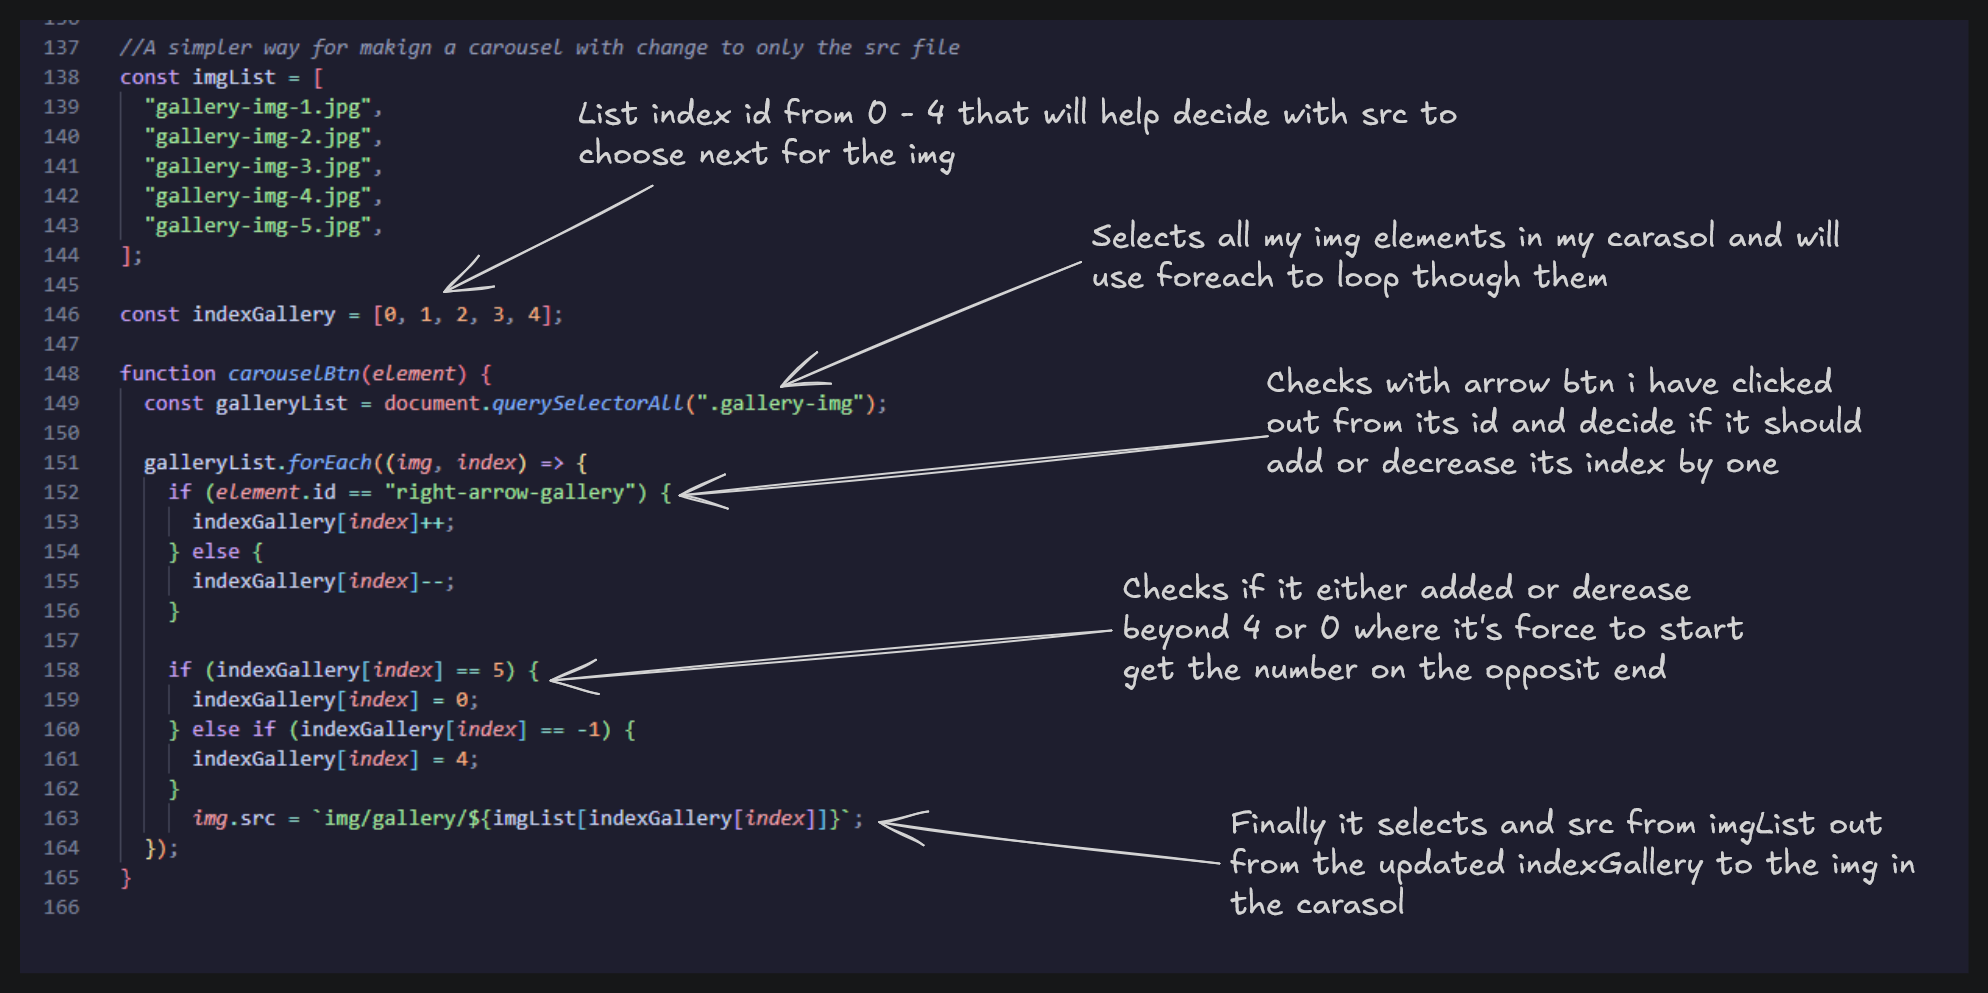
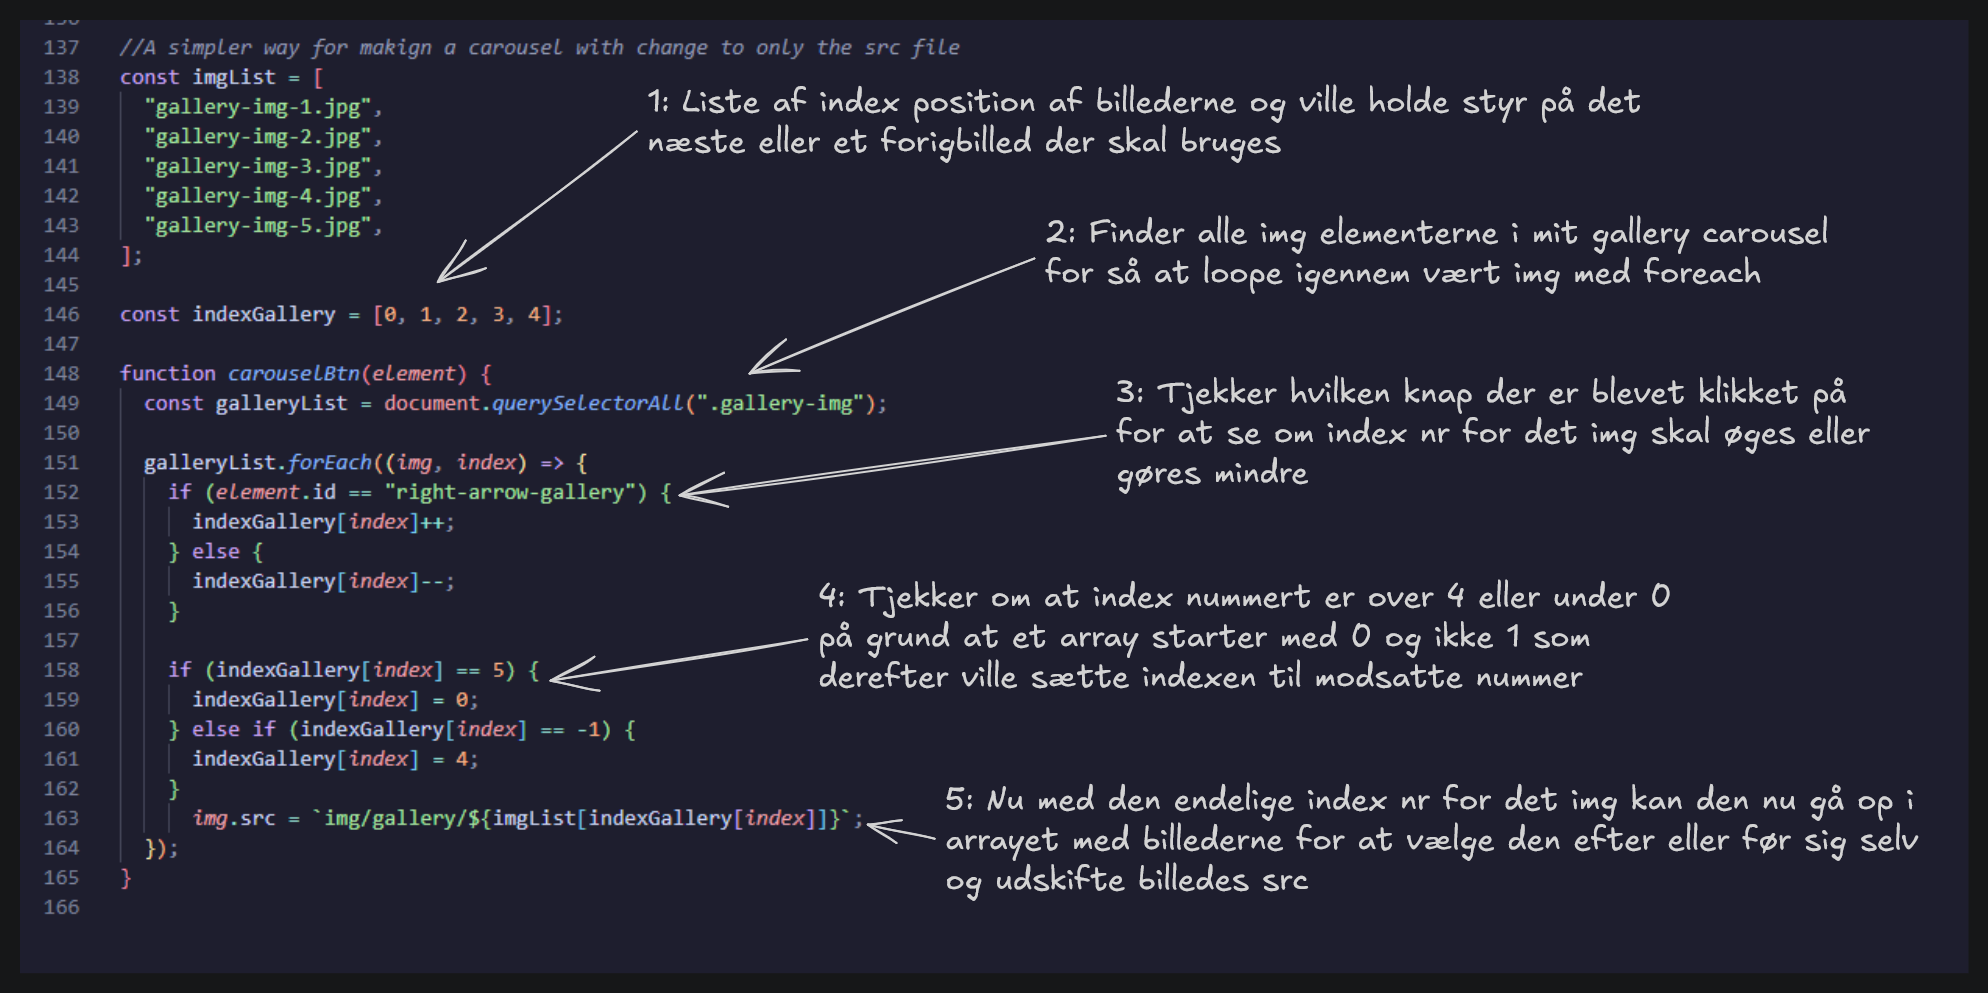
fix: changed the README  so it should be mostly done if not it would just need a few twicks

diff --git a/README.md b/README.md
@@ -1,48 +1,80 @@
 # LUMINA Audio
-###### Hvad er formålet med projektet?
 Lumina audio er en landing page som er en af projekt opgaver vi har arbejdet igennem første semester og jeg har så valgt projektet for at forbedre den med alt det jeg har lært igennem første semeste.
 
-###### Hvilke teknologier har du brugt?
-Jeg har brugt VSC som min kode editer og git for gemme koden op.
+Til projektet har jeg brugt VSC som min kode editer og github for gemningen af min kode og websom webhosteren.
 
-###### Hvad kan brugeren gøre på siden?
-Projektet er en landing page så den har derfor allerede limited interaktioner.
-* Buttons onlcik for at hvis en popup istedet for redirection.
+I gennem projektet kan bruge gøre disse interaktioner gennem landing pagen.
+* Buttons onclick for at hvis en popup istedet for redirection.
 * Projekt farverne af produktet kan ændres til 4 forskellige farver sammen med ændring af billedets vinkel.
 * Man kan klikke igennem et galleri med billeder af produktet.
 
-###### Hvilken type data arbejder projektet med?
+Gennem projektet kan jeg se at jeg bruger disse datatyper 
 * Sting
 * Array
 * Object
 
 
 ## Fil- og mappestruktur
-Så vi kan starte med min index.html fil, hvor den indholder symantiske elementer som sections, artikle, osv. hvor hvert sektion er splittet op i en sektion element og bruger onclick for at få funktioner til at blive kaldt fra js siden af  
 
-Jeg har også valgt at lave folders til både CSS og JS men siden der kun er en fil i hver af dem at folderen kunne godt blive fjernet men jeg er vant til at have det samme i folders det samme skulle også gå for pages hvis jeg havde flere mens index skal aldtid være i starten af root folderen
+### Root files
+Så vi kan starte med de filer der er ude i roo folderen der har jeg min index.html hvis jeg havde andre sider jeg skull redirect til ville de filer være i sin egen folder som kunne være kaldt pages. Den anden fil er min json fil der indholder data af mit produkt som indholder tekst, farver og src path. De bliver brugt inde i sectionen hvor en bruger kan vælge produktets farver men også vinklen af produktet.  
 
-Så har jeg img folder hvor jeg har prøvet at lave så mange folders og smide dem ind i hinandne så der ikke ligger 10+ iconer i en folder men måske 4 i hver folder inde i dem som fx i min icons folder var jeg nød til at lave flere for få et bedre overblik over hvad var pile, funktion iconer og for testimonial
+Inde i min index.html fil er den lavet så semanisk som den kan blive med brug af af semantiske elementer som article, figure, header osv som hjælper med SEO (Search Engine Optimization) noget som også er connected med min css fil er hvordan jeg har skreve class med at gøre at den forsætter med at bygge på sig selv som fx linje 21 med hero section hvor den går fra hero -> hero-content -> hero-content-about jeg syndes selv det hjælper mere med at få et overblik men den ene ting jeg var nød til at prøve passe på er længden af classen
 
-![This is an alt text.](img/readme-images/folder-structure.png "HTML validated")
+Ellers havde jeg også tænkt at bruge utility class som er det bootstrap og tailwind bruger for css hvor en class har en specifik opgave såsom at lave et element kun flex eller gøre en font større fx
+```
+//CSS
+
+.flex-col {
+  display: flex;
+  flex-direction: column;
+}
+
+.gap-16 {
+  gap: 16px;
+}
+
+.font-lg {
+  font-size: 2.4rem;
+}
+
+
+//HTML
+
+<div class="flex-col gap-16">
+  <h1 class="font-lg">Title</h1>
+  <p>Lorem ipsum dolor, sit amet consectetur adipisicing elit.</p>
+</div>
+```
+Men jeg syndes at ville blive en smule for meget for nu og holdte mig til at lave de class'er jeg har nu lavet.
+    
+### Mappestruktur
+Jeg har også valgt at lave folders til både CSS og JS men siden der kun er en fil i hver af dem, kunne det godt have blive fjernet men jeg kan godt lige at have folders, hvis man skulle tilføje en extra fil for en af dem.
+
+Så har jeg en img folder, hvor jeg har prøvet at lave så mange folders som mullight så der ikke ligger 10+ iconer i en folder alene såsom ikonerne var på et tidspunkt. Men med at have flere folders og opdel alt i mindre bider har hjulpet mig med at kunne få et bedre overblik af projektets filer/folder. 
+
+![Folder structure.](img/readme-images/folder-structure.png "HTML validated")
 
 
 ## Validering af HTML, CSS og JS
-Som der kan ses er alle tre af mine filer valideret uden nogen ødeliggende fejl
+Som der kan ses er alle tre af mine filer valideret uden at nogen af dem fejlede 
 
-![This is an alt text.](img/readme-images/html-validated.png "HTML validated")
+### Validering af HTML
+![HTML validated.](img/readme-images/html-validated.png)
 
-![This is an alt text.](img/readme-images/css-validated.png "CSS validated")
+### Validering af CSS 
+![CSS validated.](img/readme-images/css-validated.png)
 
-![This is an alt text.](img/readme-images/css-validated.png "JS validated")
+### Validering af JS
+![JS validated.](img/readme-images/js-validated.png)
 
 
 ## JavaScript datastruktur
 Så for mit data struktur hvor jeg har mit json fil for mit produkt hvor jeg har et array af objecs som indholder strings som deres type siden jeg bruger stringen til at hjælpe find det korrekte billed der bliver valgt sammen med farven
 
-![This is an alt text.](img/readme-images/data-structure.png "HTML validated")
+![Json object.](img/readme-images/data-structure.png)
 
 ## JS Eksempel 
-Så her har jeg et billed af min js kode denne del er for galleriet hvor man kan vælge at gå til næste eller forrige billed hvor den fungere med at udskifte src af billederne 
+Så her har jeg et billed af min JS kode, hvor denne del er for galleriet, hvor man kan vælge at gå til næste eller forrige billed hvor den fungere med at udskifte src af billederne. 
 
-![This is an alt text.](img/readme-images/js-explained.png "HTML validated")
+![JS examble.](img/readme-images/js-explained.png)
